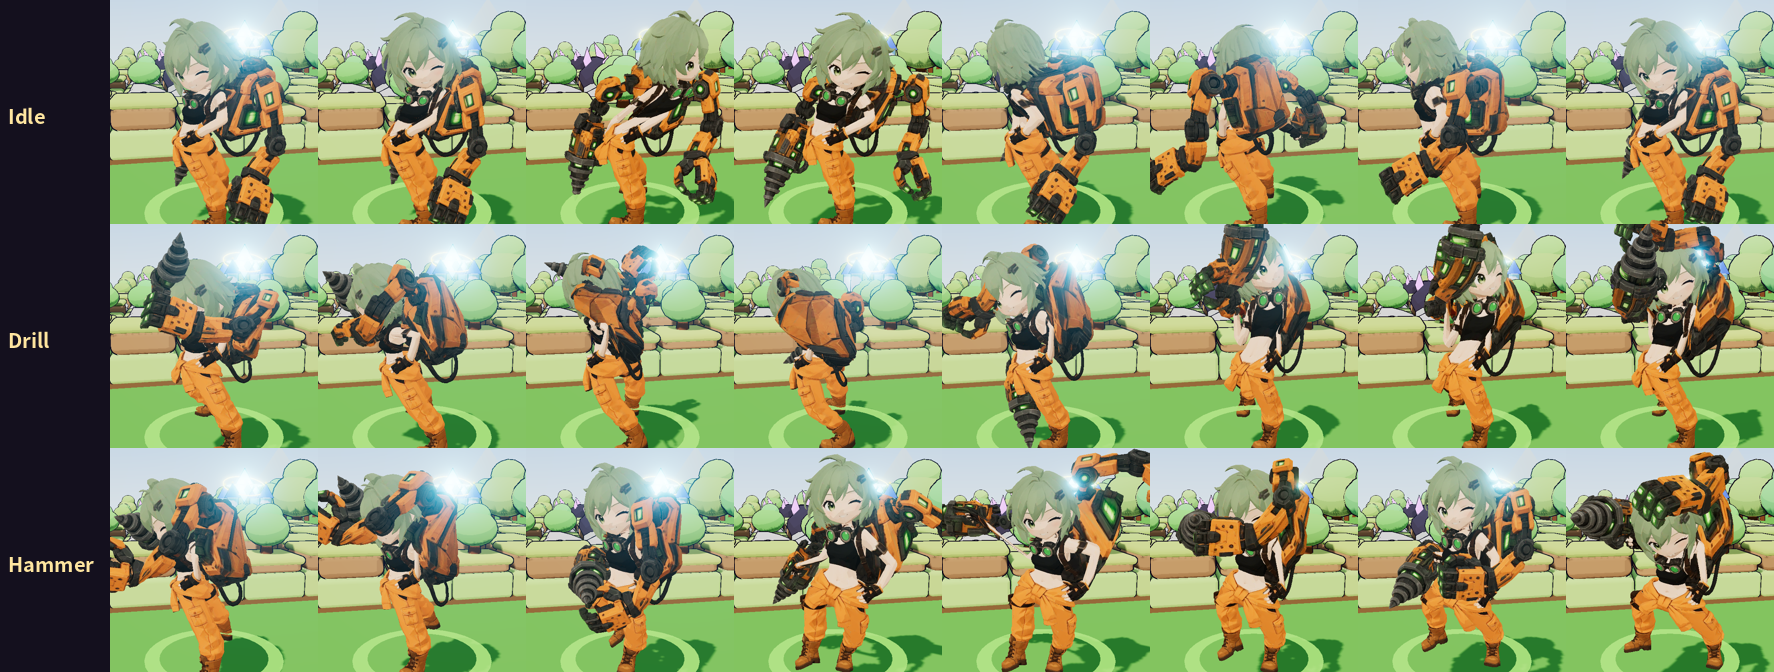
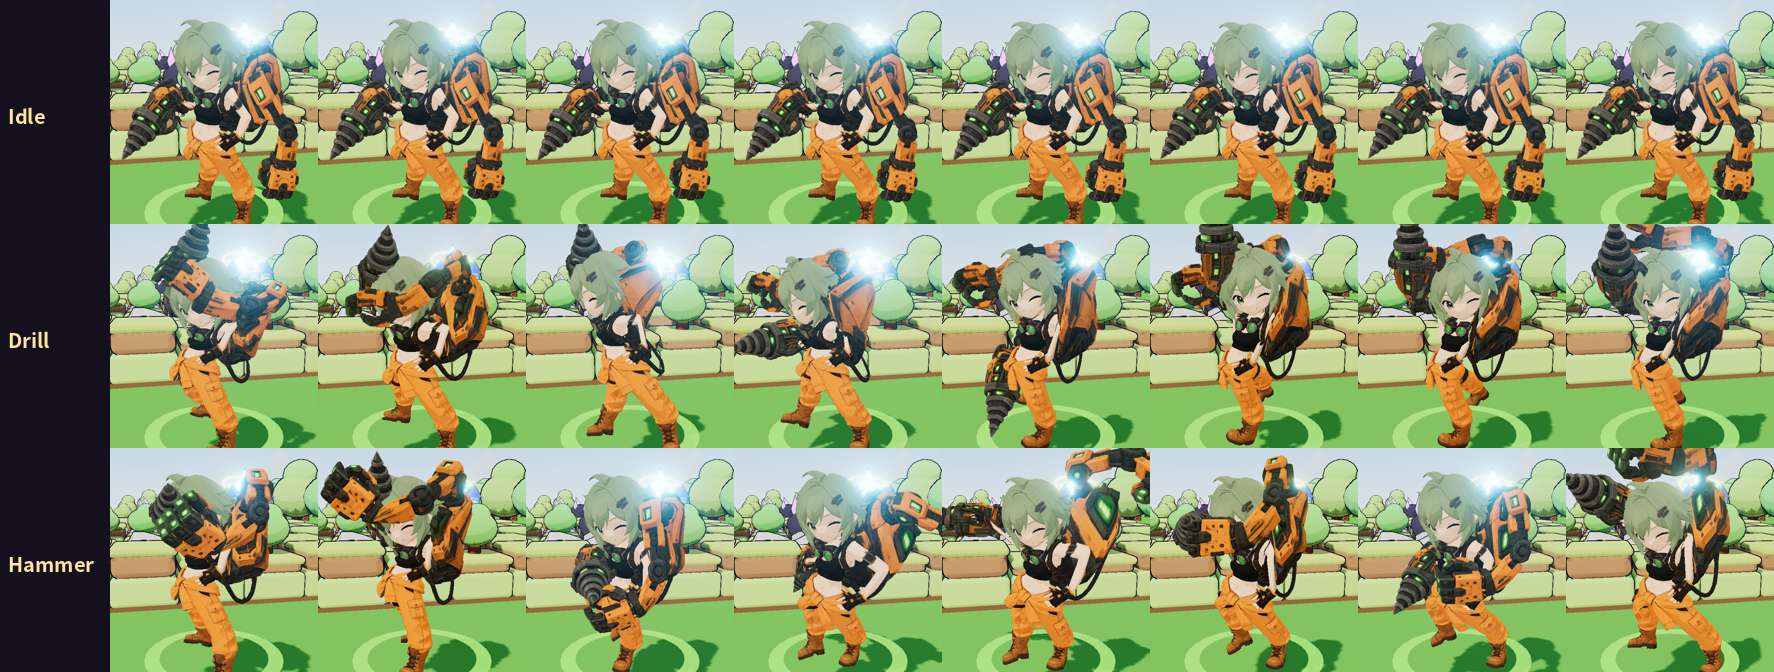
버들 모션 수정 2: 기본 Idle(엉덩이 94° 회전·46° 옆으로 섬) → 안정된 IdleAlt, 드릴/해머/어퍼컷의 엉덩이·척추·목·머리를 IdleAlt 자세 쪽 70%로 당겨 허리 128° 비틀기·고개 숙임 제거(로봇 팔 동작은 그대로), 27° 옆 자세 정면 보정 · budeul_head.py 흔들림 폭 기준(대기 3°/0.3%, 드릴 7°, 해머 11°) · 전후 비교 shots/budeul/head_fix_compare.png

diff --git a/src/render/characters.js b/src/render/characters.js
@@ -27,9 +27,10 @@ function extraClips(list, M) {
   for (const [n, up, lo] of M.mix || []) { const u = by(up), l = by(lo); if (!u || !l) continue; const k = u.duration / l.duration, bone = t => t.name.split('.')[0];
     const tr = [...u.tracks.filter(t => !LEG_RE.test(bone(t))).map(t => t.clone()), ...l.tracks.filter(t => LEG_RE.test(bone(t))).map(t => { const c = t.clone(); c.times = c.times.map(x => x * k); return c; })];
     list.push(new THREE.AnimationClip(n, u.duration, tr)); }
-  if (M.calm) { const q = new THREE.Quaternion(), q0 = new THREE.Quaternion(), K = M.calm.k;
-    for (const c of list) { if (!M.calm.clips.includes(c.name)) continue; c.tracks = c.tracks.map(t => { const bn = t.name.split('.')[0]; if (!M.calm.bones.includes(bn) || !/quaternion$/.test(t.name)) return t;
-      const v = t.values.slice(); q0.fromArray(v, 0); for (let i = 0; i < v.length; i += 4) { q.fromArray(v, i).slerp(q0, K); q.toArray(v, i); } const nt = t.clone(); nt.values = v; return nt; }); } }
+  // calm: 지정 클립의 지정 뼈 회전을 기준 자세(ref 클립 첫 프레임, 없으면 자기 첫 프레임) 쪽으로 k만큼 당김
+  for (const C of M.calm || []) { const q = new THREE.Quaternion(), q0 = new THREE.Quaternion(), K = C.k, R = C.ref && by(C.ref);
+    for (const c of list) { if (!C.clips.includes(c.name)) continue; c.tracks = c.tracks.map(t => { const bn = t.name.split('.')[0]; if (!C.bones.includes(bn) || !/quaternion$/.test(t.name)) return t;
+      const rt = R && R.tracks.find(x => x.name === t.name), v = t.values.slice(); q0.fromArray(rt ? rt.values : v, 0); for (let i = 0; i < v.length; i += 4) { q.fromArray(v, i).slerp(q0, K); q.toArray(v, i); } const nt = t.clone(); nt.values = v; return nt; }); } }
 }
 // 바인드 포즈에서 오른손 근처(수평 0.35 이내) 정점 중 가장 높은 곳 = 지팡이 끝 수정 → 조금 아래를 발사 지점으로
 function staffTop(ch, hp) { let best = null; const v = new THREE.Vector3();
@@ -52,11 +53,13 @@ const MESHY = {
   // Meshy 메카닉 버들: 등의 로봇 팔이 팔 뼈에 스킨됨 (오른팔 = 드릴, 왼팔 = 집게 주먹). Drill = 펀치 콤보 구간(다단 히트), Hammer = 해머 스윙 구간(내려찍기)
   // (HammerSwing은 허리를 깊게 숙여 머리가 132°·키의 23%까지 떨어짐 → 1초마다 반복되면 '고개를 자꾸 숙이는' 어색한 모션이라 사용 안 함. 해머 = 양손 내지르기 구간)
   // calm: 기본 공격·피격 클립의 목/머리 회전을 첫 프레임 쪽으로 k만큼 당겨 끄덕임을 줄임
-  mechanic_meshy: { alias: { Running_A: 'Run', Death_A: 'Death', Cheer: 'FistPump', Melee_Show: 'Uppercut' }, sub: [['Drill', 'PunchCombo', .4, 1.9], ['Hammer', 'DoublePunch', .2, 1.6]], hamHit: .45, arms: 1,
-    calm: { clips: ['Drill', 'Hammer', 'Hit', 'Uppercut', 'FistPump'], bones: ['neck', 'Head'], k: .6 } },
+  // 기본 Idle은 엉덩이가 94°씩 돌며 몸을 돌려 버림 → 제자리 자세가 안정된 IdleAlt 사용. 공격 클립은 몸통·목·머리를 IdleAlt 자세 쪽으로 당겨(팔=로봇 팔은 그대로) 허리 비틀기·고개 숙임 제거
+  mechanic_meshy: { alias: { Idle: 'IdleAlt', Running_A: 'Run', Death_A: 'Death', Cheer: 'FistPump', Melee_Show: 'Uppercut' }, sub: [['Drill', 'PunchCombo', .4, 1.9], ['Hammer', 'DoublePunch', .2, 1.6]], hamHit: .45, arms: 1,
+    calm: [{ clips: ['Drill', 'Hammer', 'Uppercut'], bones: ['Hips', 'Spine', 'Spine01', 'Spine02', 'neck', 'Head'], k: .7, ref: 'IdleAlt' }, { clips: ['Hit', 'FistPump'], bones: ['neck', 'Head'], k: .6 }],
+    aim: { IdleAlt: .47, Drill: .47, Hammer: .47, Uppercut: .47 } }, // 안정 자세가 옆으로 27° 서 있음 → 정면(목표)으로 보정
   // 변신 로봇 (버들 [Q] 변신 중 교체되는 모델). Run = Monster_Walk(느린 거구 걸음) → 빠르게 재생
   mech_robot_meshy: { alias: { Running_A: 'Run', Death_A: 'Hit', Cheer: 'FistPump' }, sub: [['Drill', 'PunchCombo', .4, 1.9], ['Hammer', 'HammerSwing', .5, 1.75], ['Rocket', 'DoublePunch', .2, 1.7], ['StompS', 'Stomp', 0, 1.3]], hamHit: 1.0, arms: 1, runSpd: 2.4, h: 4.6,
-    calm: { clips: ['Drill', 'Hammer', 'Uppercut', 'Hit'], bones: ['neck', 'Head'], k: .5 } },
+    calm: [{ clips: ['Drill', 'Hammer', 'Uppercut', 'Hit'], bones: ['neck', 'Head'], k: .5 }] },
   warrior_meshy: { alias: { Running_A: 'Run', Death_A: 'Death', Cheer: 'IdleLookAround', '1H_Melee_Attack_Chop': 'Slash', '1H_Melee_Attack_Slice_Horizontal': 'Slash', '2H_Melee_Attack_Spinning': 'Spin', Melee_Show: 'SlashHeavy' }, hitAt: .53 },
 };
 const wsV = new THREE.Vector3();

diff --git a/tests/budeul_head.py b/tests/budeul_head.py
@@ -12,7 +12,7 @@ JS = """async (names) => { const { makeHeroModel } = await import('./src/render/
   ch.mixer.stopAllAction(); const a0 = ch.mixer.clipAction(ch.acts.Idle.getClip()); a0.play(); ch.mixer.setTime(0); const [p0, y0] = ref();
   for (const n of names) { const A = ch.acts[n]; if (!A) continue; ch.mixer.stopAllAction(); const c = A.getClip(), a = ch.mixer.clipAction(c); a.reset(); a.play(); const P = [], Y = [];
     for (let i = 0; i <= 48; i++) { ch.mixer.setTime(c.duration * i / 48); const [pp, yy] = ref(); P.push(Math.round(pp - p0)); Y.push(+((yy - y0) / H * 100).toFixed(1)); }
-    out[n] = { clip: c.name, dur: +c.duration.toFixed(2), pitch: P, dropPct: Y, maxPitch: Math.max(...P.map(Math.abs)), maxDrop: -Math.min(...Y) }; }
+    out[n] = { clip: c.name, dur: +c.duration.toFixed(2), pitch: P, dropPct: Y, maxPitch: Math.max(...P) - Math.min(...P), maxDrop: +(Math.max(...Y) - Math.min(...Y)).toFixed(1) }; /* 클립 안에서의 흔들림 폭(최대-최소) */ }
   return out; }"""
 NAMES = ['Idle', 'Running_A', 'Drill', 'Hammer', 'Hit', 'Cheer']
 with sync_playwright() as pw:
@@ -22,9 +22,9 @@ with sync_playwright() as pw:
 fails = []
 for n in NAMES:
     if n not in r: continue
-    x = r[n]; print(f"{n:10s} ({x['clip']:>9s} {x['dur']}s)  최대 숙임 {x['maxPitch']:3d}°  머리 높이 최대 하강 {x['maxDrop']:5.1f}%  | pitch " + ' '.join(str(v) for v in x['pitch'][::4]))
-    # 일상 동작(대기/달리기)은 15° · 2% 이내, 기본 공격(1초 남짓마다 반복)은 35° · 6% 이내여야 '고개를 자꾸 숙임'이 아님
-    lim = (15, 2) if n in ('Idle', 'Running_A') else (35, 6) if n in ('Drill', 'Hammer') else (60, 12)
+    x = r[n]; print(f"{n:10s} ({x['clip']:>9s} {x['dur']}s)  머리 숙임 흔들림 {x['maxPitch']:3d}°  머리 높이 흔들림 {x['maxDrop']:5.1f}%  | pitch " + ' '.join(str(v) for v in x['pitch'][::4]))
+    # 일상 동작(대기 10°·3%, 달리기 10°·5%(뛰는 반동) 이내, 기본 공격(1초 남짓마다 반복)은 25° · 7% 이내여야 '고개를 자꾸 숙임'이 아님
+    lim = (10, 3) if n == 'Idle' else (10, 5) if n == 'Running_A' else (25, 7) if n in ('Drill', 'Hammer') else (40, 8)
     if x['maxPitch'] > lim[0] or x['maxDrop'] > lim[1]: fails.append(n)
 if arg('--json'): json.dump(r, open(arg('--json'), 'w'), ensure_ascii=False)
 print('errors', errs); print('FAIL: ' + ', '.join(fails) if fails else 'HEAD STABLE OK'); sys.exit(1 if fails or errs else 0)
